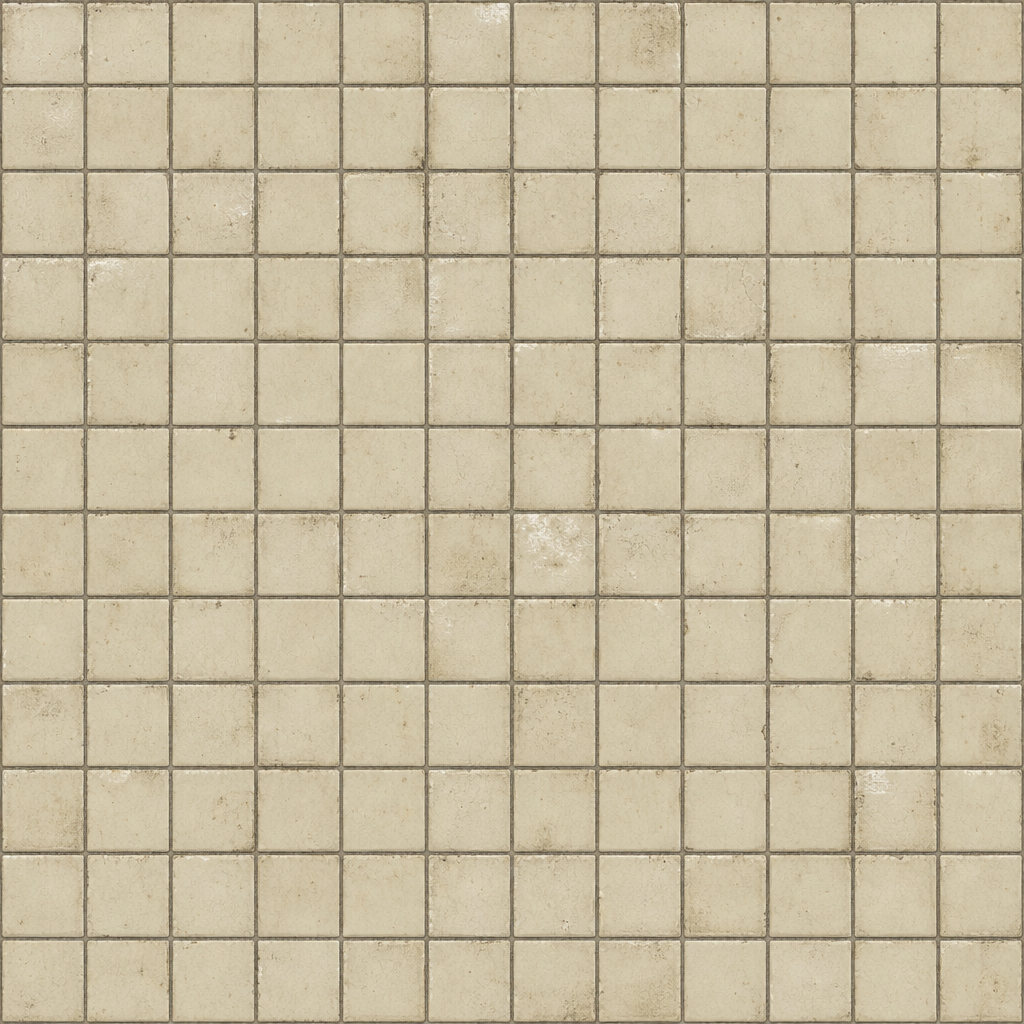
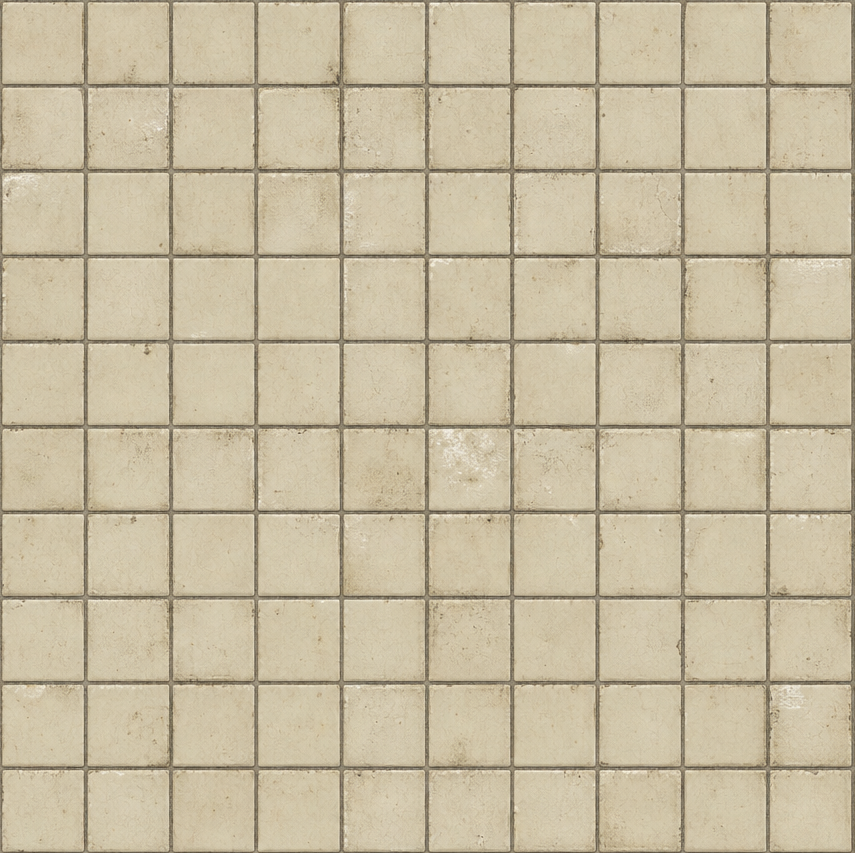
Crop station wall tiles to whole repeats

Changed region(s): [[0.0, 0.0, 1.0, 1.0], [0.0, 0.4877, 0.0304, 0.5182]]

diff --git a/assets/art/station/station-art-generation.md b/assets/art/station/station-art-generation.md
@@ -1,17 +1,17 @@
 # Hoshikawa Station — generation record
 
-Generated on 2026-11-24 on the owner’s Mac using the OpenAI Image API (`gpt-image-2`, quality `medium`, PNG), via the imagegen skill CLI. The floor grid had one additional generation and the wall grid had four to assess their repeats; the better floor and original wall are retained. Each committed file is one raw output, unchanged; the SHA-256 hashes below are of both the raw output and the committed file. Raw outputs and working previews are in the gitignored `artifacts/station-art/` on the generating machine.
+Generated on 2026-11-24 on the owner’s Mac using the OpenAI Image API (`gpt-image-2`, quality `medium`, PNG), via the imagegen skill CLI. The floor grid had one additional generation and the wall grid had four to assess their repeats; the better floor and original wall are retained. Each committed file is a raw output, unchanged except for the wall-tile crop described below. The table records raw SHA-256 hashes; the wall tile’s final hash is recorded separately. Raw outputs and working previews are in the gitignored `artifacts/station-art/` on the generating machine.
 
 The eight material textures are intended to repeat; the platform surface repeats along its horizontal axis, so the tactile strip stays continuous. All eight import losslessly with mipmaps. The view is a 3:2 daylight painting for `view.gdshader`; the signs and posters contain no intended lettering. The four wayfinding faces point right; later integration must choose their placement and orientation. No assets are wired into the game here.
 
-Repeat previews were inspected at native size. The wall grid texture has a small visible join, so seamlessness still needs art review or replacement before this ticket is complete.
[1 lines of base64/hex data omitted]
 
 | File | Dimensions | Raw SHA-256 | Edits |
 | --- | --- | --- | --- |
[8 lines of base64/hex data omitted]

diff --git a/ASSETS.md b/ASSETS.md
@@ -410,7 +410,7 @@ The dialogue box and the Starwell screen wear Codex art made the same way (`code
 
 ## Hoshikawa Station 2D art — 2026-11-24
 
-`assets/art/station/` contains the station's eight material textures, daylight valley backdrop, blank station and shop boards, four pictogram wayfinding signs, three picture-only posters and the sealed B2 shutter. The art was generated with the OpenAI Image API; [station-art-generation.md](assets/art/station/station-art-generation.md) records every prompt and raw-output hash. The platform texture is intended to repeat along its length and the other materials in both directions; a small join remains visible in the wall grid texture. The files are not yet wired into the game.
+`assets/art/station/` contains the station's eight material textures, daylight valley backdrop, blank station and shop boards, four pictogram wayfinding signs, three picture-only posters and the sealed B2 shutter. The art was generated with the OpenAI Image API; [station-art-generation.md](assets/art/station/station-art-generation.md) records every prompt and raw-output hash. The platform texture repeats along its length and the other materials in both directions; the wall tile is cropped to whole repeats. The files are not yet wired into the game.
 
 ## Mio's bedding — 2026-10-31
 

diff --git a/VERIFICATION.md b/VERIFICATION.md
@@ -5,7 +5,7 @@
 Linear HPA-1256: generated station textures, a painted valley view, blank boards, pictogram signs, posters and the sealed B2 shutter. The art is not wired into the game in this change.
 
 - **Asset checks:** all 19 PNGs decoded and matched the SHA-256 hashes recorded in `assets/art/station/station-art-generation.md`. Godot 4.6.2 Mono on the owner's Mac imported the files; a headless resource-load check loaded all 19 textures and confirmed mipmaps on the eight material textures (`STATION_IMPORT_PASS 19 textures; 8 with mipmaps`). The check script is local at `artifacts/station-art/check-imports.gd`.
-- **Visual review:** the contact sheet and repeat previews were inspected. The wall-tile texture retains a small visible repeat join; seamlessness and owner art approval remain open.
+- **Visual review:** the contact sheet and repeat previews were inspected. The wall tile was cropped at matching grout boundaries and a flush 2×2 repeat inspected at native size; owner art approval remains open.
 - **Not yet:** in-game station rendering was not tested, because this art-only change does not wire the assets into a station scene; integration is HPA-1257.
 
 ## Tunnel Mountain, part 2: the north half — 2026-11-15
